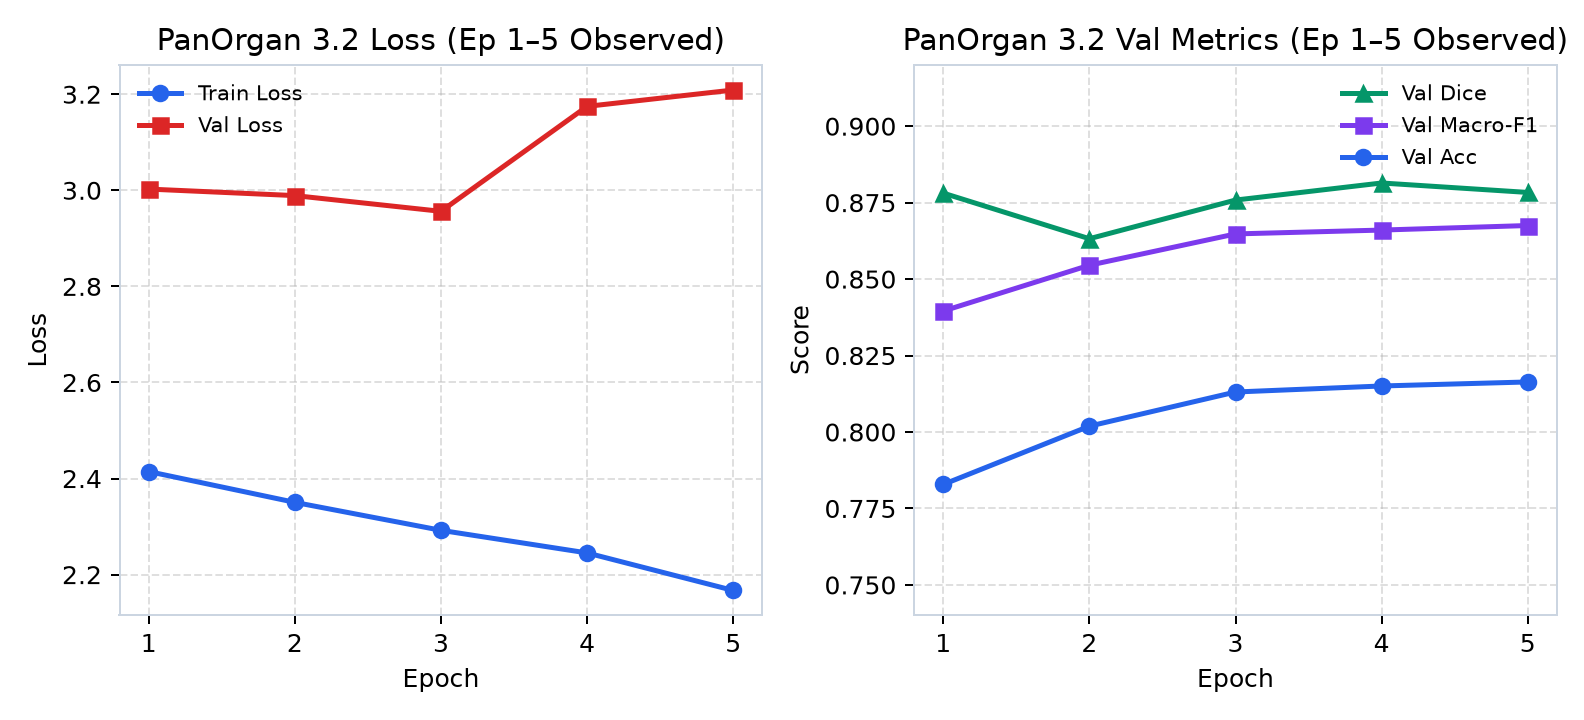
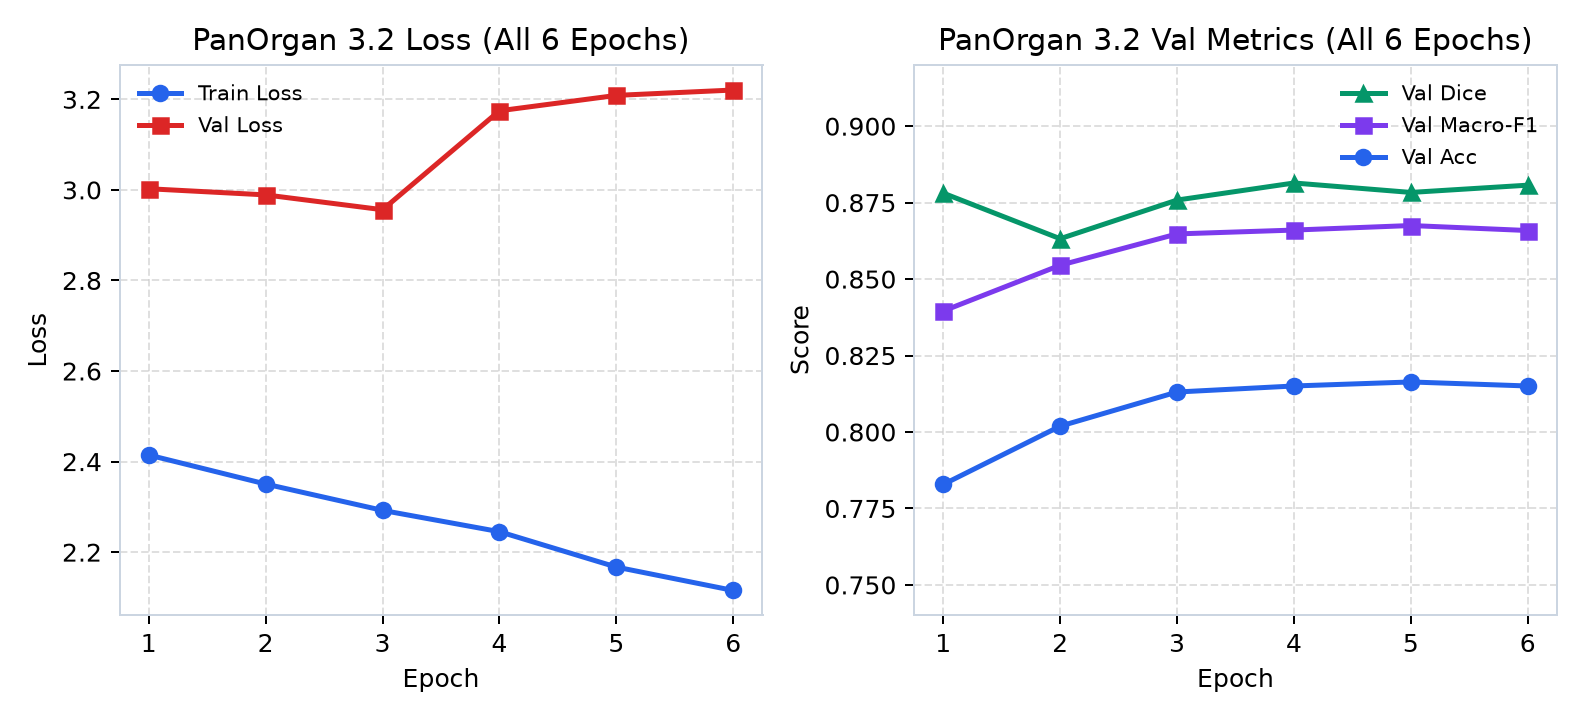
style: update technical report layout and add conformal prediction data tables

diff --git a/reports/PanOrgan_Report.html b/reports/PanOrgan_Report.html
@@ -5,13 +5,13 @@
   <meta name="viewport" content="width=device-width, initial-scale=1.0" />
   <title>PanOrgan Technical Report</title>
   <script src="https://cdn.jsdelivr.net/npm/mermaid@10/dist/mermaid.min.js"></script>
-  <script src="reports_data.js?v=202611240902"></script>
+  <script src="reports_data.js?v=202611240949"></script>
   <style>
     :root {
       --text: #111827;
-      --muted: #6b7280;
-      --border: #e5e7eb;
-      --surface: #f9fafb;
+      --muted: #4b5563;
+      --border: #d1d5db;
+      --surface: #f8fafc;
       --accent: #0f172a;
     }
 
@@ -19,10 +19,10 @@
 
     body {
       margin: 0;
-      padding: 32px 20px;
-      font-family: -apple-system, BlinkMacSystemFont, "Inter", "Segoe UI", Roboto, sans-serif;
-      font-size: 14px;
-      line-height: 1.65;
+      padding: 28px 20px;
+      font-family: "Times New Roman", Times, Georgia, serif;
+      font-size: 14.5px;
+      line-height: 1.6;
       color: var(--text);
       background: #f3f4f6;
       -webkit-font-smoothing: antialiased;
@@ -78,27 +78,27 @@
       background: #ffffff;
       padding: 46px 50px;
       border: 1px solid var(--border);
-      border-radius: 14px;
+      border-radius: 12px;
     }
 
     header {
-      padding-bottom: 16px;
-      margin-bottom: 22px;
-      border-bottom: 1px solid var(--border);
+      padding-bottom: 14px;
+      margin-bottom: 20px;
+      border-bottom: 1.5px solid var(--accent);
     }
 
     h1 {
       margin: 0 0 4px 0;
       font-size: 24px;
       font-weight: 700;
-      letter-spacing: -0.02em;
       color: var(--accent);
     }
 
     .subtitle {
-      font-size: 14px;
+      font-size: 14.5px;
+      font-weight: 600;
       color: var(--muted);
-      margin-bottom: 12px;
+      margin-bottom: 10px;
     }
 
     .meta-row {
@@ -111,36 +111,38 @@
 
     .meta-row strong {
       color: var(--text);
-      font-weight: 600;
+      font-weight: 700;
     }
 
     h2 {
-      font-size: 15px;
-      font-weight: 650;
+      font-size: 15.5px;
+      font-weight: 700;
       color: var(--accent);
-      margin: 26px 0 10px 0;
+      border-bottom: 1px solid var(--border);
+      padding-bottom: 3px;
+      margin: 22px 0 10px 0;
       page-break-after: avoid;
       break-after: avoid;
     }
 
     h3 {
       font-size: 13.5px;
-      font-weight: 600;
+      font-weight: 700;
       color: var(--text);
-      margin: 14px 0 8px 0;
+      margin: 12px 0 6px 0;
       page-break-after: avoid;
       break-after: avoid;
     }
 
-    p { margin: 0 0 10px 0; color: #374151; }
-    ol { margin: 6px 0 12px 0; padding-left: 18px; color: #374151; }
-    li { margin-bottom: 6px; }
+    p { margin: 0 0 9px 0; color: #1f2937; text-align: justify; }
+    ol { margin: 6px 0 12px 0; padding-left: 18px; color: #1f2937; }
+    li { margin-bottom: 5px; }
 
     .table-wrap {
       border: 1px solid var(--border);
       border-radius: 10px;
       overflow: hidden;
-      margin: 10px 0 16px 0;
+      margin: 10px 0 14px 0;
       page-break-inside: avoid;
       break-inside: avoid;
     }
@@ -149,47 +151,65 @@
       width: 100%;
       border-collapse: separate;
       border-spacing: 0;
-      font-size: 13px;
+      font-size: 12.5px;
+      table-layout: auto;
+      word-wrap: break-word;
+      overflow-wrap: anywhere;
     }
 
     th, td {
-      padding: 9px 12px;
+      padding: 7px 10px;
       text-align: left;
       vertical-align: top;
       border-bottom: 1px solid var(--border);
     }
 
+    td:first-child { font-weight: 700; color: var(--accent); }
     tr:last-child td { border-bottom: none; }
 
     th {
       background: var(--surface);
-      font-weight: 600;
+      font-weight: 700;
       color: var(--accent);
       font-size: 12.5px;
+    }
+
+    .figure-grid {
+      display: grid;
+      grid-template-columns: repeat(2, 1fr);
+      gap: 12px;
+      margin: 10px 0 14px 0;
     }
 
     .diagram-box, .figure-card {
       border: 1px solid var(--border);
       border-radius: 10px;
       background: #ffffff;
-      padding: 16px;
-      margin: 12px 0 16px 0;
+      padding: 10px;
+      margin: 0;
       text-align: center;
       overflow-x: auto;
       page-break-inside: avoid;
       break-inside: avoid;
     }
 
+    .diagram-box {
+      margin: 10px 0 14px 0;
+    }
+
     .figure-card img {
       max-width: 100%;
+      max-height: 240px;
+      width: auto;
       height: auto;
       border-radius: 6px;
       display: block;
-      margin: 0 auto 8px auto;
+      margin: 0 auto 6px auto;
     }
 
     .figure-caption {
-      font-size: 12px;
+      font-size: 11px;
+      font-weight: 700;
       color: var(--muted);
     }
 
@@ -197,36 +217,89 @@
       background: var(--surface);
       border: 1px solid var(--border);
       border-radius: 10px;
-      padding: 11px 14px;
-      margin: 12px 0;
-      font-size: 13px;
-      color: #374151;
+      padding: 10px 14px;
+      margin: 10px 0;
+      font-size: 12.5px;
+      color: #1f2937;
       page-break-inside: avoid;
       break-inside: avoid;
     }
 
+    .diagram-box svg {
+      max-width: 100%;
+      height: auto;
+    }
+
     @page {
-      size: A4;
-      margin: 16mm 15mm 16mm 15mm;
+      size: A4 portrait;
+      margin: 18mm 16mm 18mm 16mm;
     }
 
     @media print {
-      body {
-        background: #ffffff;
-        padding: 0;
-        font-size: 10.5pt;
+      html, body {
+        width: auto !important;
+        margin: 0 !important;
+        padding: 0 !important;
+        background: #ffffff !important;
+        font-family: "Times New Roman", Times, Georgia, serif;
+        font-size: 10pt;
+        line-height: 1.48;
         -webkit-print-color-adjust: exact;
         print-color-adjust: exact;
       }
-      .toolbar { display: none; }
+      .toolbar { display: none !important; }
       .page {
-        max-width: 100%;
-        border: none;
-        border-radius: 0;
-        padding: 0;
-        margin: 0;
+        width: auto !important;
+        max-width: 100% !important;
+        border: none !important;
+        border-radius: 0 !important;
+        padding: 0 !important;
+        margin: 0 !important;
+        box-shadow: none !important;
       }
-      section { break-inside: avoid-page; }
+      header {
+        margin-top: 0 !important;
+        padding-top: 0 !important;
+        break-inside: avoid;
+        page-break-inside: avoid;
+      }
+      table {
+        width: 100% !important;
+        font-size: 9.2pt;
+      }
+      th, td {
+        padding: 5px 8px;
+        overflow-wrap: anywhere;
+        word-break: break-word;
+      }
+      .diagram-box {
+        padding: 8px;
+        overflow: hidden !important;
+      }
+      .diagram-box svg {
+        max-width: 100% !important;
+        width: 100% !important;
+        height: auto !important;
+      }
+      .figure-grid {
+        gap: 8px;
+        break-inside: auto;
+      }
+      .figure-card, .diagram-box, .table-wrap, .note-box, tr {
+        break-inside: avoid;
+        page-break-inside: avoid;
+        max-width: 100%;
+      }
+      .figure-card img {
+        max-height: 170px;
+        max-width: 100%;
+        object-fit: contain;
+      }
+      section { break-inside: auto; }
+      h1, h2, h3 {
+        break-after: avoid;
+        page-break-after: avoid;
+      }
     }
   </style>
 </head>
@@ -244,7 +317,7 @@
         startOnLoad: false,
         theme: "base",
         themeVariables: {
-          fontFamily: "-apple-system, BlinkMacSystemFont, 'Inter', 'Segoe UI', Roboto, sans-serif",
+          fontFamily: "'Times New Roman', Times, Georgia, serif",
           fontSize: "13px",
           lineColor: "#64748b"
         },
@@ -299,12 +372,13 @@
 
     function buildImages(images) {
       if (!images || !images.length) return "";
-      return images.map(img => `
+      const cards = images.map(img => `
         <div class="figure-card">
           <img src="${escapeHtml(img.src)}" alt="${escapeHtml(img.caption)}" />
           <div class="figure-caption">${escapeHtml(img.caption)}</div>
         </div>
       `).join("");
+      return `<div class="figure-grid">${cards}</div>`;
     }
 
     async function renderVersion(versionId) {

diff --git a/reports/reports_data.js b/reports/reports_data.js
@@ -98,6 +98,12 @@ window.PANORGAN_REPORTS = {
       ["busi", "109", "0.6356 (0.5805–0.6855)", "0.5211", "53.11"],
       ["Overall", "646", "0.7790 (0.7548–0.8034)", "0.7241", "17.74"]
     ],
+    conformalRows: [
+      ["tcga_lgg", "537", "92.18%", "1.05", "4.66%"],
+      ["busi", "109", "91.74%", "1.29", "29.36%"],
+      ["nih_cxr14", "179", "87.15%", "2.87", "100.00%"],
+      ["Overall", "825", "91.03%", "1.48", "28.61%"]
+    ],
     images: [
       { src: "assets/v2_confusion_matrix.png", caption: "Figure 1: PanOrgan 2 Test Confusion Matrix (n = 825)" },
       { src: "assets/v2_train_val_loss.png", caption: "Figure 2: PanOrgan 2 Training & Validation Loss (10 Epochs)" },
@@ -172,6 +178,14 @@ window.PANORGAN_REPORTS = {
       ["busi", "109", "0.7790 (0.7280–0.8240)", "0.6983", "28.78"],
       ["ultrasound_nerve", "266", "0.6175 (0.5620–0.6680)", "0.5863", "9.77"],
       ["Overall", "1,246", "0.8355 (0.8180–0.8510)", "0.7986", "10.16"]
+    ],
+    conformalRows: [
+      ["nih_cxr14", "179", "100.00%", "1.00", "0.00%"],
+      ["tcga_lgg", "537", "94.41%", "1.00", "0.00%"],
+      ["pulmonology_cxr", "334", "88.92%", "1.00", "0.00%"],
+      ["busi", "109", "93.58%", "1.57", "30.28%"],
+      ["ultrasound_nerve", "266", "92.11%", "3.59", "100.00%"],
+      ["Overall", "1,425", "93.33%", "1.53", "20.98%"]
     ],
     images: [
       { src: "assets/v3_confusion_matrix.png", caption: "Figure 1: PanOrgan 3 Test Confusion Matrix (n = 1,425)" },
@@ -341,14 +355,14 @@ window.PANORGAN_REPORTS = {
       ["busi", "US", "653 (653 pts)", "Breast ultrasound joint seg & cls"],
       ["cbis_ddsm", "MG", "88 (45 pts)", "Mammography pathology"]
     ],
-    trainingNote: "PID 8439 running on Apple M4 GPU (MPS) — Ep 1–5 completed (Ep 6 at 77%). Best composite 0.8737 locked at Ep 4; Ep 3 Pre-Deployment Validation already completed on held-out test split (n = 3,038 cls / 1,804 seg).",
+    trainingNote: "PID 8439 completed all 6 epochs on Apple M4 GPU (MPS) with Early Stopping keeping Ep 4 best checkpoint (composite = 0.8737). Final 6-epoch test evaluation is currently running; held-out test metrics below reflect the verified Ep 3 Pre-Deployment Validation (n = 3,038 cls / 1,804 seg).",
     epochRows: [
       ["1", "2.4145", "3.0026", "0.8781", "0.8396", "78.29%"],
       ["2", "2.3504", "2.9890", "0.8632", "0.8545", "80.19%"],
       ["3 (Validated)", "2.2922", "2.9562", "0.8758", "0.8648", "81.31%"],
       ["4 (Best)", "2.2451", "3.1748", "0.8814", "0.8660", "81.50%"],
       ["5", "2.1670", "3.2087", "0.8783", "0.8675", "81.64%"],
-      ["6", "Running (77%)", "Pending", "Pending", "Pending", "Pending"]
+      ["6 (Early Stop)", "2.1153", "3.2206", "0.8807", "0.8659", "81.50%"]
     ],
     classificationRows: [
       ["AUROC (Ep 3)", "0.9485", "0.9485"],
